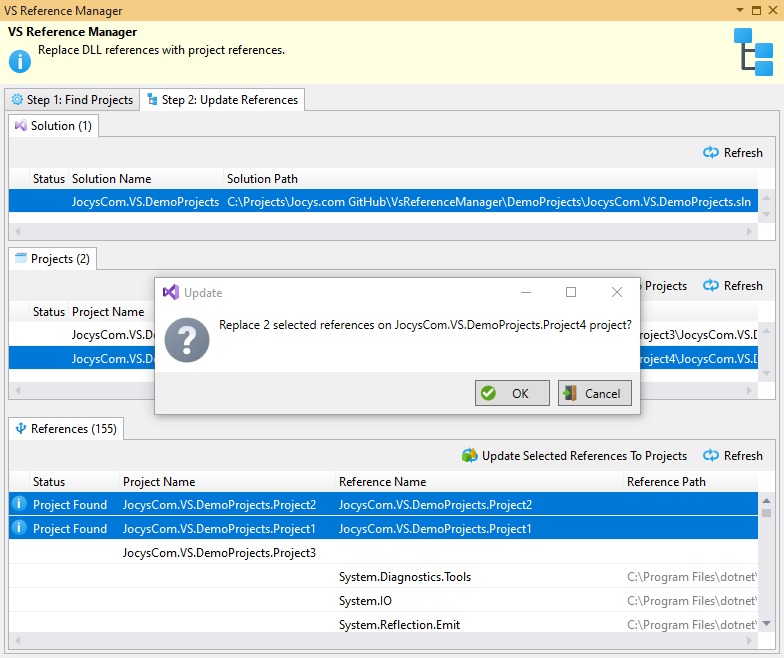
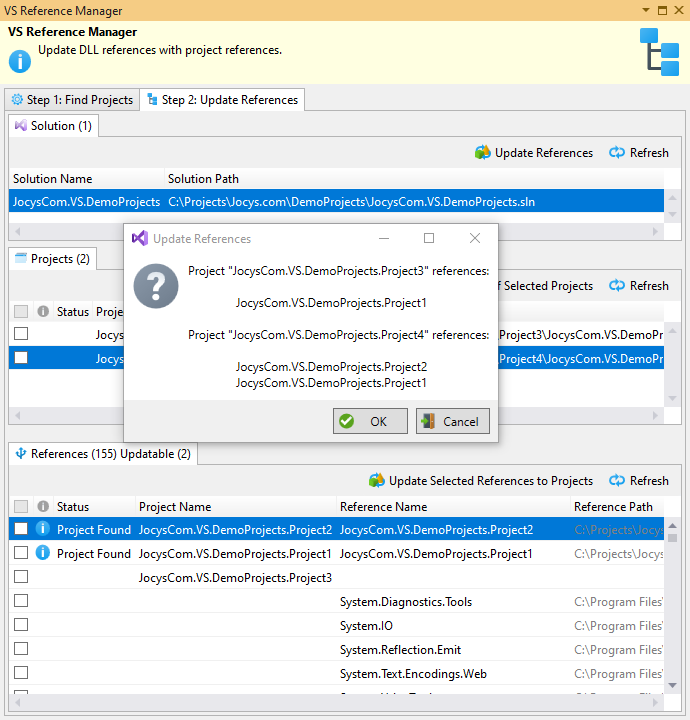
Fixed: Update of multiple projects.

diff --git a/ReferenceManager/Controls/MainControl.xaml.cs b/ReferenceManager/Controls/MainControl.xaml.cs
@@ -268,7 +268,19 @@ namespace JocysCom.VS.ReferenceManager.Controls
 				form.ShowDialog($"There are no project references to update.", "Update", MessageBoxButton.OK, MessageBoxImage.Information);
 				return;
 			}
-			var result = form.ShowDialog($"Update {referenceText} on {projectText}?", "Update", MessageBoxButton.OKCancel, MessageBoxImage.Question);
+			var message = $"Update {referenceText} on {projectText}?";
+			if (referenceCount < 8)
+			{
+				message = "";
+				foreach (var project in param.Data.Keys)
+				{
+					message += $"\r\nProject \"{project.Project?.Name}\" references:\r\n\r\n";
+					foreach (var reference in param.Data[project])
+						message += $"\t{reference.ReferenceName}\r\n";
+				}
+				message = message.Trim('\r', '\n');
+			}
+			var result = form.ShowDialog(message, "Update References", MessageBoxButton.OKCancel, MessageBoxImage.Question);
 			if (result != MessageBoxResult.OK)
 				return;
 			// Set progress controls.

diff --git a/ReferenceManager/Common/ProjectUpdater.cs b/ReferenceManager/Common/ProjectUpdater.cs
@@ -65,8 +65,8 @@ namespace JocysCom.VS.ReferenceManager
 					if (string.IsNullOrEmpty(ri.ProjectPath))
 						continue;
 					// If reference path not available then skip.
-					//if (string.IsNullOrEmpty(ri.ReferencePath))
-					//	continue;
+					if (string.IsNullOrEmpty(ri.ReferencePath))
+						continue;
 					VSLangProj.VSProject vsProject = null;
 					ControlsHelper.Invoke(() =>
 					{

diff --git a/ReferenceManager/Properties/AssemblyInfo.cs b/ReferenceManager/Properties/AssemblyInfo.cs
@@ -29,5 +29,5 @@ using System.Runtime.InteropServices;
 // You can specify all the values or you can default the Build and Revision Numbers 
 // by using the '*' as shown below:
 // [assembly: AssemblyVersion("1.0.*")]
-[assembly: AssemblyVersion("1.5.0.0")]
-[assembly: AssemblyFileVersion("1.5.0.0")]
+[assembly: AssemblyVersion("1.6.0.0")]
+[assembly: AssemblyFileVersion("1.6.0.0")]

diff --git a/README.md b/README.md
@@ -14,16 +14,16 @@ Extension scans specified locations with projects. Then it will use that date to
 
 Before: Solution's Project4 references two DLL assemblies:
 
-&nbsp;&nbsp;&nbsp;&nbsp;<img alt="Solution From" src="ReferenceManager/Documents/Images/Solution_From.png" width="330" height="220">
+&nbsp;&nbsp;&nbsp;&nbsp;<img alt="Solution From" src="ReferenceManager/Documents/Images/Solution_From.png" width="340" height="340">
 
 After: Solution includes two projects and Project4 references them:
 
-&nbsp;&nbsp;&nbsp;&nbsp;<img alt="Solution To" src="ReferenceManager/Documents/Images/Solution_To.png" width="330" height="255">
+&nbsp;&nbsp;&nbsp;&nbsp;<img alt="Solution To" src="ReferenceManager/Documents/Images/Solution_To.png" width="340" height="370">
 
 ## Screenshots
 
-&nbsp;&nbsp;&nbsp;&nbsp;<img alt="Solution From" src="ReferenceManager/Documents/Images/Extension_Menu.png" width="387" height="124">
+&nbsp;&nbsp;&nbsp;&nbsp;<img alt="Solution From" src="ReferenceManager/Documents/Images/Extension_Menu.png" width="390" height="138">
 
-&nbsp;&nbsp;&nbsp;&nbsp;<img alt="Solution From" src="ReferenceManager/Documents/Images/Extension_Step1.png" width="784" height="658">
+&nbsp;&nbsp;&nbsp;&nbsp;<img alt="Solution From" src="ReferenceManager/Documents/Images/Extension_Step1.png" width="690" height="720">
 
-&nbsp;&nbsp;&nbsp;&nbsp;<img alt="Solution From" src="ReferenceManager/Documents/Images/Extension_Step2.png" width="784" height="658">
+&nbsp;&nbsp;&nbsp;&nbsp;<img alt="Solution From" src="ReferenceManager/Documents/Images/Extension_Step2.png" width="690" height="720">
